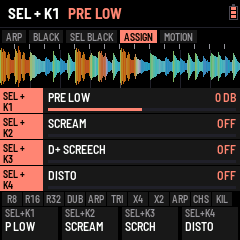
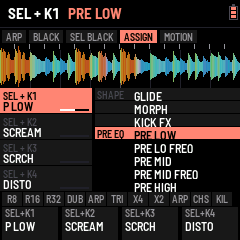
ARP › ASSIGN as a list by family (ALGORITHM a family on); knob function XSUB FREQ
Claude-Session: https://claude.ai/code/session_01SezACdoJJxH9cT2JHvLkit

Changed region(s): [[0.0, 0.35, 1.0, 0.8167], [0.875, 0.3792, 0.9917, 0.4375]]

diff --git a/app/site/controlmap.html b/app/site/controlmap.html
@@ -237,7 +237,7 @@
     { id: "arp", btn: "ARP", name: "ARP", sub: "Sixteen effects over everything; the black keys' layout", again: "back to HOME (SELECT: its tabs ARP, BLACK, SEL BLACK, EXPERT)", subs: [
       { n: "ARP", k: ["AMOUNT", "THRU", "RATE / SWEEP", "LATCH"], strip: "SIXTEEN EFFECTS, ONE A WHITE KEY: LIT WHILE THEY SOUND · BREAK / KICK: ITS THRU", note: "ALGORITHM: the 16 effects in order (0.9.52; SEL + ALGO the break); held, or LATCH on: a key switches its effect on and off; K1-K3 the effect touched last: THRU BREAK, KICK or THRU (the whole mix), each effect its own (0.9.50), saved" },
       { n: "BLACK", k: ["PRESET", "KEY (ALGO too)", "EFFECT", ""], strip: "THE TWELVE BLACK KEYS (THE REC KEY LAST) AND WHAT EACH DOES · THE KEY EDITED · THE PRESET", note: "EXPERT; K1 CHOPPAH, FLEXOR LAYOUT (R8 R16 R32 DUB ARP TRI X4 X2 ARP CHS KIL, REC VNL; with SEL: key 4 ARP, 5 GAT, 6 FLT, 7 RND, 8 FRZ, 9 SUB, 10 DST, REC KBR), CUSTOM; a black key pressed picks itself; K3 on a preset: a CUSTOM copy; K4 an ARP key's own effect" },
-      { n: "ASSIGN", k: ["SEL + K1", "SEL + K2", "SEL + K3", "SEL + K4"], strip: "EACH SEL KNOB: ITS FUNCTION, ITS VALUE, A BAR", note: "0.9.85: K1-K4 what SEL + that knob turns (as KICK › MORE › K1-K4 SET); PRESETS the styles and PRESET 1-4" },
+      { n: "ASSIGN", k: ["SEL + K1", "SEL + K2", "SEL + K3", "SEL + K4"], strip: "LEFT THE FOUR KNOBS (FUNCTION, VALUE); RIGHT THE WHOLE LIST BY FAMILY: DIST SHAPE PRE EQ XSUB FILTER, THE KNOB'S OWN LIT, THE OTHERS' TAGGED", note: "0.9.85-0.9.86: K1-K4 that knob a function on through the list; ALGORITHM the knob touched last a family on; PRESETS the styles and PRESET 1-4; KICK › MORE › K1-K4 SET as before" },
       { n: "MOTION", k: ["MOTION", "REC", "LANE (ALGO too)", "CLEAR"], strip: "THE FOUR LANES (SEL + K1-K4): EACH ITS FUNCTION AND ITS 64 STEPS, THE STEP PLAYING", note: "A TEST (0.9.85): REC ON and playing, SEL + K1-K4 turned are written into the pattern's motion and played back each loop; K1 the pattern's motion OFF / M1-M4, K4 five detents right clears the lane (or ALL)" },
       { n: "SEL BLACK", k: ["", "KEY (ALGO too)", "SEL +", ""], strip: "THE TWELVE BLACK KEYS (THE REC KEY LAST) AND WHAT EACH DOES WITH SEL · THE KEY EDITED · WITHOUT SEL", note: "EXPERT (0.9.49); each black key a second function, pressed with SEL held or locked (0.9.70: the REC key too, last; any function but ARP); ITS OWN: as without SEL; a black key pressed picks itself" },
       algo: "ARP: the 16 effects in order (SEL: the break) · the other tabs: the key", presets: "Pattern P1–P64 (SEL: the kick)", keys: "16 effects", sel: "EXPERT: the next tab, ARP, BLACK, SEL BLACK (BEGINNER: tempo)",

diff --git a/app/ui/track.c b/app/ui/track.c
@@ -678,23 +678,24 @@ static void track_dropped(void)
 /* LOAF BREAKER (10 Nov 2026, early next gen): 15 PITCH DROP (SYNTH's DROP, its TIME), 16 RUMBLE (its amount, its
  * time), 17 PUNCH (MACRO's), 18 DRUM FLT (the drums' filter, SEL + SELECT's), 19 HOLD (SYNTH's), 20 KICK FX (the
  * kick's two FX slots' mix) */
-#define SK_N 29u                         /* (0.9.62, FLEXOR: 21 SUB DRV, the SUB layer's DRIVE gain; 0.9.85, FLEXOR: "les db+
+#define SK_N 30u                         /* (0.9.62, FLEXOR: 21 SUB DRV, the SUB layer's DRIVE gain; 0.9.85, FLEXOR: "les db+
                                           * et db- des trois fréquences du pre-eq ainsi que les low freq, med freq, high
                                           * freq ... sculpter les kicks en direct ou grâce à une motion": 22-24 PRE LOW, MID,
                                           * HIGH (their gains), 25-27 their frequencies, 28 BRK FLT (the break's DJ filter)) */
 #define SK_PRE 22u                       /* (the first PRE EQ function: 22 + b a gain, 25 + b a frequency) */
 #define SK_BFLT 28u
+#define SK_XO 29u                        /* (0.9.86, FLEXOR: "un knob assign pour l'XFREQ de l'onglet xsub": SUB SPLIT's X FREQ) */
 /* (LOAF BREAKER, 10 Nov 2026: on the screen TERROR is DISTO, TERROR 2 SCREAM, TERROR + DISTO +, its settings D+ ..: names
  * a newcomer reads; the code keeps TERROR's) */
 static const char *const SK_NAME[SK_N] = {"DUCK", "SCREAM", "COMP", "DISTO", "DISTO +", "DRIVE", "D+ TYPE",
                                           "D+ SCREECH", "D+ TAIL", "TUNE", "DECAY", "REV BASS", "GLIDE", "CLEAN SUB",
                                           "MORPH", "PITCH DROP", "RUMBLE", "PUNCH", "DRUM FLT", "HOLD", "KICK FX", "SUB DRIVE",
                                           "PRE LOW", "PRE MID", "PRE HIGH", "PRE LO FREQ", "PRE MID FREQ", "PRE HI FREQ",
-                                          "BRK FLT"};
+                                          "BRK FLT", "XSUB FREQ"};
 static const char *const SK_SHORT[SK_N] = {"DUCK", "SCREAM", "COMP", "DISTO", "D+ DRIVE", "DRIVE", "D+ TYPE", "SCRCH",
                                            "D+ TAIL", "TUNE", "DECAY", "REV B", "GLIDE", "C SUB", "MORPH", "P DROP",
                                            "RUMBLE", "PUNCH", "D FLT", "HOLD", "K FX", "SUB DRV", "P LOW",
-                                           "P MID", "P HIGH", "P LO F", "P MID F", "P HI F", "B FLT"};
+                                           "P MID", "P HIGH", "P LO F", "P MID F", "P HI F", "B FLT", "X FREQ"};
 static const char *const SK_KNOB[SK_N][4] = {{"AMOUNT", "ATTACK", "RELEASE", "DUCKS"}, {"AMOUNT", "SUB", "SCREAM", "PUSH"},
                                              {"AMOUNT", "RATIO", "ATTACK", "RELEASE"}, {"AMOUNT", "SUB", "FIZZ", "SUSTAIN"},
                                              {"DRIVE", "TYPE", "SCREECH", "TAIL"}, {"AMOUNT", "", "", ""},
@@ -706,14 +707,14 @@ static const char *const SK_KNOB[SK_N][4] = {{"AMOUNT", "ATTACK", "RELEASE", "DU
                                              {"HOLD", "", "", ""}, {"FX 1 MIX", "FX 2 MIX", "", ""}, {"GAIN", "", "", ""},
                                              {"GAIN", "", "", ""}, {"GAIN", "", "", ""}, {"GAIN", "", "", ""},
                                              {"FREQ", "", "", ""}, {"FREQ", "", "", ""}, {"FREQ", "", "", ""},
-                                             {"FILTER", "", "", ""}};
+                                             {"FILTER", "", "", ""}, {"FREQ", "", "", ""}};
 static const char *const T_TYPE_NAME[KICK_T_TYPES] = {"FOLD", "CLIP", "CRUSH", "RECT", "TUBE", "HALF", "SINE",
                                                       "WRAP", "FUZZ"};   /* (0.255: four more, FLEXOR) */
 /* what a SEL + knob can be given (KNOB, PRESETS), in that order: its code 1..15 is its place + 1 (0: the knob's own) */
-#define SK_CODES 29u                     /* (codes past 15: selk_hi's fifth bit; 0.9.62 SUB DRIVE, 22; 0.9.85 the PRE EQ's
+#define SK_CODES 30u                     /* (codes past 15: selk_hi's fifth bit; 0.9.62 SUB DRIVE, 22; 0.9.85 the PRE EQ's
                                           * six and BRK FLT, 23-29: the fifth bit holds them, 31 at most) */
 static const uint8_t SK_CODE[SK_CODES] = {0u, 1u, 2u, 3u, 4u, 6u, 7u, 8u, 5u, 9u, 10u, 11u, 12u, 13u, 14u, 15u, 16u,
-                                          17u, 18u, 19u, 20u, 21u, 22u, 23u, 24u, 25u, 26u, 27u, 28u};
+                                          17u, 18u, 19u, 20u, 21u, 22u, 23u, 24u, 25u, 26u, 27u, 28u, 29u};
 static const uint8_t SK_OWN[4] = {5u, 1u, 7u, 3u};   /* K1 DRIVE, K2 TERROR 2, K3 T+ SCREECH, K4 TERROR (LOAF BREAKER:
                                           * DUCK and COMP no more: the MIXER's MASTER has them) */
 static const char *sk_short(uint32_t f) { return SK_SHORT[f % SK_N]; }   /* (EDIT KICK's KNOBS) */
@@ -775,12 +776,17 @@ static void selk_value(uint32_t f, int i, char *t)
     uint8_t v;
     int32_t sv;
     t[0] = 0;
-    if (f >= SK_PRE) {                   /* (0.9.85: the PRE EQ's gains and frequencies, BRK FLT) */
+    if (f >= SK_PRE) {                   /* (0.9.85: the PRE EQ's gains and frequencies, BRK FLT; 0.9.86 X FREQ) */
         const kick_px_t *x = kpx_at(set.kslot);
         uint32_t b = (f - SK_PRE) % 3u;
         if (i)
             return;
-        if (f == SK_BFLT)
+        if (f == SK_XO) {
+            if (!x->xo)
+                text_cat(t, "OFF");
+            else
+                hz_text(40.0f + 5.0f * (float)(x->xo - 1u), t);
+        } else if (f == SK_BFLT)
             brk_flt_text(t);
         else if (f >= SK_PRE + 3u)
             hz_text(kpx_hz(x, b), t);
@@ -903,7 +909,7 @@ static float sk_norm(uint32_t f, int i)  /* a setting 0..1, as its bar */
     if (f >= SK_PRE) {                   /* (0.9.85: the PRE EQ's, BRK FLT) */
         const kick_px_t *x = kpx_at(set.kslot);
         uint32_t b = (f - SK_PRE) % 3u;
-        return i ? 0.0f : f == SK_BFLT ? (set.fx.dj + 1.0f) * 0.5f :
+        return i ? 0.0f : f == SK_XO ? (float)x->xo / (float)KICK_XO_N : f == SK_BFLT ? (set.fx.dj + 1.0f) * 0.5f :
                f >= SK_PRE + 3u ? (float)(x->eq_f[b] - KPX_FLO[b]) / (float)(KPX_FHI[b] - KPX_FLO[b]) :
                (float)(x->eq_g[b] + KICK_PX_DB) * (1.0f / (2.0f * KICK_PX_DB));
     }
@@ -959,7 +965,9 @@ static void selk_turn(uint32_t f, int i, int32_t d)
         uint32_t b = (f - SK_PRE) % 3u;
         if (i)
             return;
-        if (f >= SK_PRE + 3u)
+        if (f == SK_XO)
+            x->xo = (uint8_t)clamp((int32_t)x->xo + d, 0, (int32_t)KICK_XO_N);
+        else if (f >= SK_PRE + 3u)
             x->eq_f[b] = (int8_t)clamp((int32_t)x->eq_f[b] + d, KPX_FLO[b], KPX_FHI[b]);
         else
             x->eq_g[b] = (int8_t)clamp((int32_t)x->eq_g[b] + d, -KICK_PX_DB, KICK_PX_DB);
@@ -2234,39 +2242,101 @@ static void draw_motion(void)
 }
 
 /* ---- ARP › ASSIGN (0.9.85, FLEXOR: "dans ARP un nouvel onglet Knob assign ... avant motion"; KICK › MORE's kept as
- * it is): K1-K4 the function SEL + K1..K4 turn (as K1-K4 SET's PRESETS), PRESETS the styles and PRESET 1-4 (as
- * ASSIGN's); the page each knob's function, its value and its bar ---- */
+ * it is; 0.9.86, FLEXOR: "une liste déroulante ... voir beaucoup plus facilement les options ... pas de menu diving"):
+ * the four knobs on the left, the one touched last lit; on the right every function in a list by family, the knob's
+ * own lit, the ones the other knobs have tagged with their number. K1-K4 move that knob a function on through the list
+ * (this page's order, by family: KICK › MORE keeps SK_CODE's, the saved codes untouched), ALGORITHM the focused knob a
+ * family on, PRESETS the styles and PRESET 1-4 ---- */
+#define AS_FAM 5u
+static const char *const AS_FAM_NAME[AS_FAM] = {"DIST", "SHAPE", "PRE EQ", "XSUB", "FILTER"};
+static const uint8_t AS_ORD[] = {3u, 1u, 5u, 21u, 4u, 6u, 7u, 8u,            /* (DIST: DISTO, SCREAM, DRIVE, SUB DRIVE, D+ ..) */
+                                 17u, 10u, 15u, 16u, 19u, 13u, 11u, 12u, 14u, 20u,   /* (SHAPE) */
+                                 22u, 25u, 23u, 26u, 24u, 27u,               /* (PRE EQ: each band beside its frequency) */
+                                 29u,                                        /* (XSUB) */
+                                 18u, 28u};                                  /* (FILTER: DRUM FLT, BRK FLT) */
+#define AS_N (sizeof AS_ORD / sizeof AS_ORD[0])
+static const uint8_t AS_FAM_AT[AS_FAM] = {0u, 8u, 18u, 24u, 25u};   /* (each family's first place in AS_ORD) */
+static uint8_t as_foc;                   /* (the knob touched last) */
+static uint32_t as_at(uint32_t f)        /* a function's place in the list (one not there: 0) */
+{
+    uint32_t i;
+    for (i = 0; i < AS_N; i++)
+        if (AS_ORD[i] == f)
+            return i;
+    return 0u;
+}
+static uint32_t as_fam(uint32_t at)
+{
+    uint32_t g = AS_FAM - 1u;
+    while (g && at < AS_FAM_AT[g])
+        g--;
+    return g;
+}
+static void as_set(uint32_t kn, uint32_t at)   /* knob kn to the list's place at */
+{
+    uint32_t c, f = AS_ORD[at % AS_N];
+    char n[12] = "SEL + K";
+    for (c = 0; c < SK_CODES && SK_CODE[c] != f; c++)
+        ;
+    sk_code_set(kn & 3u, c + 1u);
+    n[7] = (char)('1' + (kn & 3u));
+    n[8] = 0;
+    app_say(n, SK_NAME[f % SK_N]);
+    changed();
+    ui.redraw |= RG_BLOCKS | RG_FOOT;
+}
 static void as_value(int i, char *t)
 {
     t[0] = 0;
     text_cat(t, sk_short(selk_fn((uint32_t)i & 3u)));
 }
-static void as_turn(int i, int32_t d) { selk_assign_k((uint32_t)i & 3u, d); }
+static void as_turn(int i, int32_t d)    /* K1-K4: that knob a function on (or back) through the list, stopping at its ends */
+{
+    as_foc = (uint8_t)(i & 3);
+    as_set(as_foc, (uint32_t)clamp((int32_t)as_at(selk_fn(as_foc)) + (d > 0 ? 1 : -1), 0, (int32_t)AS_N - 1));
+}
+static void as_fam_turn(int32_t d)       /* ALGORITHM: the focused knob to the next family's first (or the one before) */
+{
+    int32_t g = (int32_t)as_fam(as_at(selk_fn(as_foc))) + (d > 0 ? 1 : -1);
+    as_set(as_foc, AS_FAM_AT[clamp(g, 0, (int32_t)AS_FAM - 1)]);
+}
 static void draw_assign(void)
 {
-    uint32_t band, k;
+    uint32_t band, k, r, cur = as_at(selk_fn(as_foc)), top;
     char t[16];
+    top = cur < 3u ? 0u : cur - 3u;      /* (the list's eight rows, the knob's own the fourth when it can) */
+    if (top > AS_N - 8u)
+        top = AS_N - 8u;
     for (band = 0; band < 2u; band++) {
         cv_begin(240, 52, C_BLACK);
-        for (k = band * 2u; k < band * 2u + 2u; k++) {
-            int32_t y = (int32_t)(k % 2u) * 26, h = 25, w;
+        for (k = band * 2u; k < band * 2u + 2u; k++) {   /* (left: the four knobs) */
+            int32_t y = (int32_t)(k % 2u) * 26;
+            int on = k == as_foc;
             uint32_t f = selk_fn(k);
-            float n = sk_norm(f, 0);
-            cv_rect(0, y, 240, h, C_BLOCK);
-            cv_rect(0, y, 43, h, C_BLOCK_HI);
+            cv_rect(0, y, 92, 25, on ? C_BLOCK_HI : C_BLOCK);
             t[0] = 0;
-            text_cat(t, "SEL +");
-            cv_text(3, y + 2, &FONT_T, t, C_BLACK);
-            t[0] = 0;
-            text_cat(t, "K");
-            int_text((int32_t)k + 1, t + 1);
-            cv_text(3, y + 13, &FONT_T, t, C_BLACK);
-            cv_text(48, y + 2, &FONT_XS, SK_NAME[f % SK_N], C_WHITE);
-            selk_value(f, 0, t);
-            w = text_w(&FONT_XS, t);
-            cv_text(236 - w, y + 2, &FONT_XS, t, C_HI);
-            cv_rect(48, y + h - 5, 188, 3, C_LINE);
-            cv_rect(48, y + h - 5, (int32_t)(n * 188.0f + 0.5f), 3, C_HI);
+            text_cat(t, "SEL + K");
+            int_text((int32_t)k + 1, t + 7);
+            cv_text(3, y + 2, &FONT_T, t, on ? C_BLACK : C_DIM);
+            cv_text(3, y + 11, &FONT_XS, sk_short(f), on ? C_BLACK : C_WHITE);
+            cv_rect(60, y + 21, 29, 2, on ? C_BLACK : C_LINE);   /* (its value's bar) */
+            cv_rect(60, y + 21, (int32_t)(sk_norm(f, 0) * 29.0f + 0.5f), 2, on ? C_WHITE : C_HI);
+        }
+        for (r = band * 4u; r < band * 4u + 4u; r++) {   /* (right: the list, 13 rows each) */
+            uint32_t at = top + r, f = AS_ORD[at], g = as_fam(at), j;
+            int32_t y = (int32_t)(r % 4u) * 13;
+            int on = at == cur;
+            cv_rect(95, y, 145, 12, on ? C_HI : (g & 1u) ? C_BLOCK : C_BLACK);
+            if (at == AS_FAM_AT[g] || r == 0u)   /* (a family's first, and the list's top row: its name) */
+                cv_text(97, y + 1, &FONT_T, AS_FAM_NAME[g], on ? C_BLACK : at == AS_FAM_AT[g] ? C_AMB : C_DIM);
+            cv_text(134, y + 1, &FONT_XS, SK_NAME[f % SK_N], on ? C_BLACK : C_WHITE);
+            for (j = 0; j < 4u; j++)     /* (the other knobs that have it) */
+                if (j != as_foc && selk_fn(j) == f) {
+                    t[0] = 'K';
+                    t[1] = (char)('1' + j);
+                    t[2] = 0;
+                    cv_text(236 - text_w(&FONT_T, t), y + 3, &FONT_T, t, on ? C_BLACK : C_HI);
+                }
         }
         cv_blit(0, 88u + band * 52u);
     }

diff --git a/app/ui/main.c b/app/ui/main.c
@@ -684,7 +684,7 @@ static void enc_one(int k, int32_t d, uint32_t btn)   /* an encoder turned d (in
         else if (ui.page == PG_OVL && ui.opage == 4u)
             mo_turn(2, d);
         else if (ui.page == PG_OVL && ui.opage == 3u)
-            ;                        /* (0.9.85: ASSIGN, nothing) */           /* (0.9.85: MOTION, ALGORITHM the lane, as K3) */
+            as_fam_turn(d);          /* (0.9.86: ASSIGN, ALGORITHM the knob touched last a family on) */           /* (0.9.85: MOTION, ALGORITHM the lane, as K3) */
         else if (ui.page == PG_OVL && ui.opage >= 1u)
             bk_turn(1, d);           /* (0.9.26, FLEXOR: ARP › BLACK KEYS, ALGORITHM the key, as K2) */
         else if (ui.page == PG_TRACK && ui.tpage == 0u)

diff --git a/app/docs/MANUAL.md b/app/docs/MANUAL.md
@@ -427,7 +427,7 @@ hard turn deletes one item, not the ones moving into its place, 0.9.26),
 - **The live knobs** (EDIT › KNOBS): what SEL + each knob does, on any page. On the KICK menu's KNOBS section,
   **ALGORITHM** goes to K1 SET .. K4 SET, and **PRESETS** there gives that knob its function: SCREAM, DISTO, D+ DRIVE, D+ TYPE, D+ SCREECH, D+ TAIL (DISTO +'s settings, one each),
   DRIVE (the kick's INTENSITY), DECAY, REV BASS, GLIDE, CLEAN SUB, MORPH, PITCH DROP, RUMBLE, PUNCH, DRUM FLT,
-  HOLD, KICK FX or SUB DRIVE (0.9.62: the SUB layer's DRIVE gain; 0.9.66, FLEXOR: the gain alone, it never turns the drive on: the SDR key does, and it says OFF beside the gain while off), PRE LOW, PRE MID, PRE HIGH (0.9.85: the PRE EQ's gains, 1 dB a detent, -18 to +18), PRE LO FREQ, PRE MID FREQ, PRE HI FREQ (their frequencies, a semitone a detent), or BRK FLT (the break's DJ filter, HOME's K2): sculpt the kick's PRE EQ or sweep the break live. They start as K1 DRIVE, K2 SCREAM, K3 D+ SCREECH, K4 DISTO. K1–K4 then set the
+  HOLD, KICK FX or SUB DRIVE (0.9.62: the SUB layer's DRIVE gain; 0.9.66, FLEXOR: the gain alone, it never turns the drive on: the SDR key does, and it says OFF beside the gain while off), PRE LOW, PRE MID, PRE HIGH (0.9.85: the PRE EQ's gains, 1 dB a detent, -18 to +18), PRE LO FREQ, PRE MID FREQ, PRE HI FREQ (their frequencies, a semitone a detent), BRK FLT (the break's DJ filter, HOME's K2), or XSUB FREQ (0.9.86: KICK › DIST › SUB SPLIT's X FREQ, OFF then 40 to 300 Hz): sculpt the kick's PRE EQ, move its split or sweep the break live. They start as K1 DRIVE, K2 SCREAM, K3 D+ SCREECH, K4 DISTO. K1–K4 then set the
   function's settings (K1 is what SEL + its knob turns). DUCK and COMP are not here: the MIXER (LFO) has them, MASTER and
   DYNAMICS.
   - **SCREAM**: AMOUNT, SUB (what stays clean under it, ~48–250 Hz), SCREAM (the mids it pushes, ~150 Hz–2.4 kHz),
@@ -598,10 +598,18 @@ animation of what it does, and **K1–K4 tune that pad** (the foot shows its set
 
 ### KNOB ASSIGN (0.9.85)
 
-**ARP › ASSIGN** (EXPERT, ARP's fourth tab) is where SEL + K1–K4 get their function, next to MOTION that records them:
-**K1–K4** each pick what SEL + that knob turns (the same list as KICK › MORE › K1–K4 SET, which stays where it was),
-**PRESETS** goes through the styles and PRESET 1–4 (as KICK › MORE › ASSIGN). The page shows each knob's function, its
-value and a bar. The functions are the kick playing's, as everywhere.
+**ARP › ASSIGN** (EXPERT, ARP's fourth tab) is where SEL + K1–K4 get their function, next to MOTION that records them.
+On the left the four knobs, each its function and a bar of its value, the one touched last lit. On the right **the whole
+list**, by family, **DIST** (DISTO, SCREAM, DRIVE, SUB DRIVE, DISTO +, D+ TYPE, D+ SCREECH, D+ TAIL), **SHAPE** (PUNCH,
+DECAY, PITCH DROP, RUMBLE, HOLD, CLEAN SUB, REV BASS, GLIDE, MORPH, KICK FX), **PRE EQ** (each band beside its frequency),
+**XSUB** (XSUB FREQ, SUB SPLIT's crossover, 0.9.86) and **FILTER** (DRUM FLT, BRK FLT): the knob's own function lit, the
+ones the other knobs already have tagged K1–K4.
+
+- **K1–K4**: that knob's function, one place on through the list (or back).
+- **ALGORITHM**: the knob touched last, straight to the next family (or the one before).
+- **PRESETS**: the styles and PRESET 1–4 (as KICK › MORE › ASSIGN), the four knobs at once.
+
+KICK › MORE › K1–K4 SET still works as before, in its own order. The functions are the kick playing's, as everywhere.
 
 ![ARP › ASSIGN: SEL + K1 on PRE LOW](img/arpassign.png "KNOB ASSIGN")
 
@@ -611,7 +619,7 @@ value and a bar. The functions are the kick playing's, as everywhere.
 **REC** ON, press PLAY, then turn **SEL + K1–K4**. Each one's move is written at the step playing, over the pattern's
 64 steps (four bars), and comes back every time the pattern loops. What gets recorded is whatever the four SEL knobs
 do (ARP › ASSIGN, or KICK › MORE › K1–K4 SET): the kick's DRIVE, DISTO, SCREAM, SUB DRIVE, DECAY, PITCH DROP, PUNCH, the drums' filter, the
-PRE EQ's gains and frequencies, the break's filter (BRK FLT)… Each lane keeps the function it was recorded with; recording another function on a lane replaces it.
+PRE EQ's gains and frequencies, the break's filter (BRK FLT), the SUB SPLIT's crossover (XSUB FREQ)… Each lane keeps the function it was recorded with; recording another function on a lane replaces it.
 Between two written steps the value holds. While you turn a knob, its own lane waits for your hand.
 
 - **K1 MOTION**: the pattern's motion, OFF or M1–M4 (four motions, each pattern picks one: the motion changes with the

diff --git a/docs/PRD.md b/docs/PRD.md
@@ -435,6 +435,7 @@ ABG's four, plus the master section a live unit needs.
 | A-86 | **KIL MUTES** (LOAF BREAKER, 26 Nov 2026, 0.9.85, FLEXOR, from issue #5: "mute the entire drum section including snares and hi-hats"): KIL's K2 MUTES, what it quiets while held (or latched, K1): KICKS (as before), DRUMS (snare, hat, clap), ALL; set.half_mt_off bits 6-7 | P1 | *Done* |
 | A-87 | **The PRE EQ and BRK FLT as knob functions** (LOAF BREAKER, 26 Nov 2026, 0.9.85, FLEXOR: "pouvoir assigner les db+ et db- des trois fréquences du pre-eq ainsi que les low freq, med freq, high freq ... sculpter les kicks en direct ou grâce à une motion"): SK 22-28 PRE LOW / MID / HIGH, their frequencies, BRK FLT, for SEL + K1-K4 (and MOTION) | P1 | *Done* |
 | A-88 | **MOTION** (LOAF BREAKER, 26 Nov 2026, 0.9.85, a TEST, FLEXOR, from issue #5: "motion control recording"; his choices: SEL + K1-K4 and BRK FLT, four motions, each pattern its own, over 64 steps): ARP › MOTION; REC on and playing, SEL + K1-K4 written at bar64, played back each loop; saved after km2 in OBJ_KMEM2; RAM 1.1 KB | P1 | *TEST* |
+| A-89 | **ARP › ASSIGN as a list; XSUB FREQ** (LOAF BREAKER, 26 Nov 2026, 0.9.86, FLEXOR: "une liste déroulante ... pas de menu diving ... ne pas avoir à sacrifier des options"; "un knob assign pour l'XFREQ de l'onglet xsub"): the four knobs left, every function right by family, ALGORITHM a family on; SK 29 XSUB FREQ | P1 | *Done* |
 
 ---
 

diff --git a/CLAUDE.md b/CLAUDE.md
@@ -152,7 +152,11 @@ E-*, N-*; milestones M0–M8). Keep the PRD in step when scope changes.
 - ARP › ASSIGN (26 Nov 2026, 0.9.85, FLEXOR: "dans ARP un nouvel onglet Knob assign ... avant motion ... ne modifie
   pas l'autre"): ui.opage 3 (OPAGE_NAME "ASSIGN", the header KNOB ASSIGN), track.c `as_value` / `as_turn` (selk_assign_k)
   / `draw_assign`; PRESETS kstyle_turn; ALGORITHM nothing; KICK › MORE's KNOBS, ASSIGN, K1-K4 SET untouched. MOTION is
-  opage 4 since. Scenario arpassign.
+  opage 4 since. Scenario arpassign. 0.9.86 (FLEXOR: "une liste déroulante ... pas de menu diving"): the four knobs left
+  (`as_foc` the one touched last), every function right by family (`AS_ORD`, `AS_FAM_AT`, `AS_FAM_NAME`: DIST SHAPE PRE
+  EQ XSUB FILTER; this page's own order, SK_CODE's untouched so the saved codes keep), the others' tagged K1-K4; K1-K4
+  `as_turn` a place on, ALGORITHM `as_fam_turn` a family on. SK 29 XSUB FREQ (`SK_XO`, kx2.px xo, OFF / 40-300 Hz),
+  SK_N / SK_CODES 30: code 31, one function more at most.
 - MOTION (26 Nov 2026, 0.9.85, a TEST, FLEXOR, from issue #5: "motion control recording ... in Edit Mode ... and for the
   white/black key effects"; his choices: SEL + K1-K4 and BRK FLT, four motions, each pattern its own, "utiliser un motion
   sur l'étendue d'un pattern de 64 steps"; he wants feedback before more): ARP's fifth tab (ui.opage 4 since ASSIGN, OPAGE_NAME,

diff --git a/docs/NEXT.md b/docs/NEXT.md
@@ -1,2 +1,4 @@
 <!-- What the next release adds, in a few lines for the players: the release workflow (loaf.yml) puts it at the top of
 the release's notes. Emptied (this comment kept) once the release is out. -->
+- ARP › ASSIGN redone: the four knobs on the left, every function on the right in a list by family (DIST, SHAPE, PRE EQ, XSUB, FILTER), the ones other knobs have tagged; K1-K4 move through it, ALGORITHM jumps a family.
+- New knob function XSUB FREQ: the SUB SPLIT's crossover (KICK › DIST › SUB SPLIT's X FREQ).
